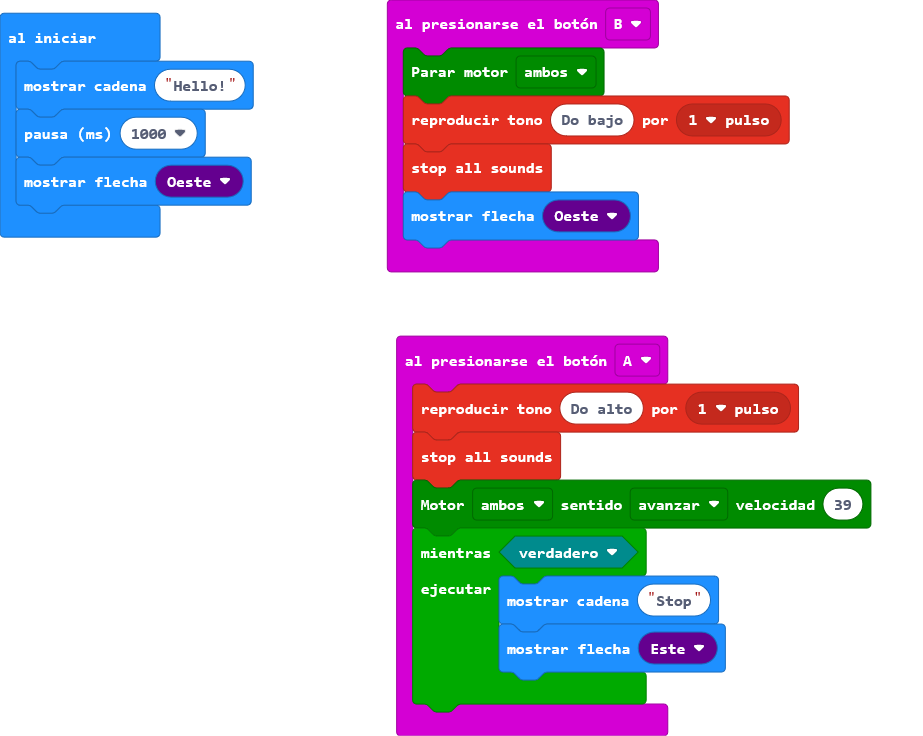
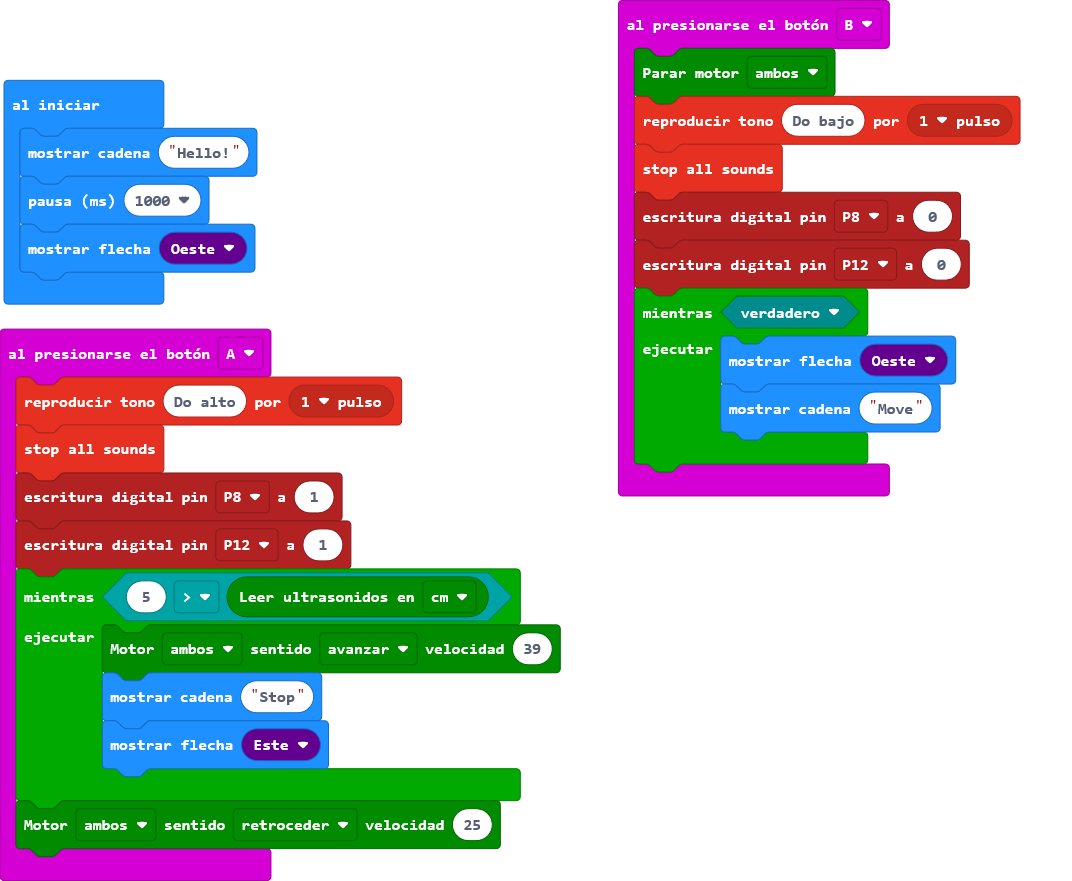
Update main.blocks, main.ts

diff --git a/main.ts b/main.ts
@@ -1,17 +1,25 @@
 input.onButtonPressed(Button.A, function () {
     music.playTone(523, music.beat(BeatFraction.Whole))
     music.stopAllSounds()
-    maqueen.motorRun(maqueen.Motors.All, maqueen.Dir.CW, 39)
-    while (true) {
+    pins.digitalWritePin(DigitalPin.P8, 1)
+    pins.digitalWritePin(DigitalPin.P12, 1)
+    while (5 > maqueen.Ultrasonic(PingUnit.Centimeters)) {
+        maqueen.motorRun(maqueen.Motors.All, maqueen.Dir.CW, 39)
         basic.showString("Stop")
         basic.showArrow(ArrowNames.East)
     }
+    maqueen.motorRun(maqueen.Motors.All, maqueen.Dir.CCW, 25)
 })
 input.onButtonPressed(Button.B, function () {
     maqueen.motorStop(maqueen.Motors.All)
     music.playTone(131, music.beat(BeatFraction.Whole))
     music.stopAllSounds()
-    basic.showArrow(ArrowNames.West)
+    pins.digitalWritePin(DigitalPin.P8, 0)
+    pins.digitalWritePin(DigitalPin.P12, 0)
+    while (true) {
+        basic.showArrow(ArrowNames.West)
+        basic.showString("Move")
+    }
 })
 basic.showString("Hello!")
 basic.pause(1000)
